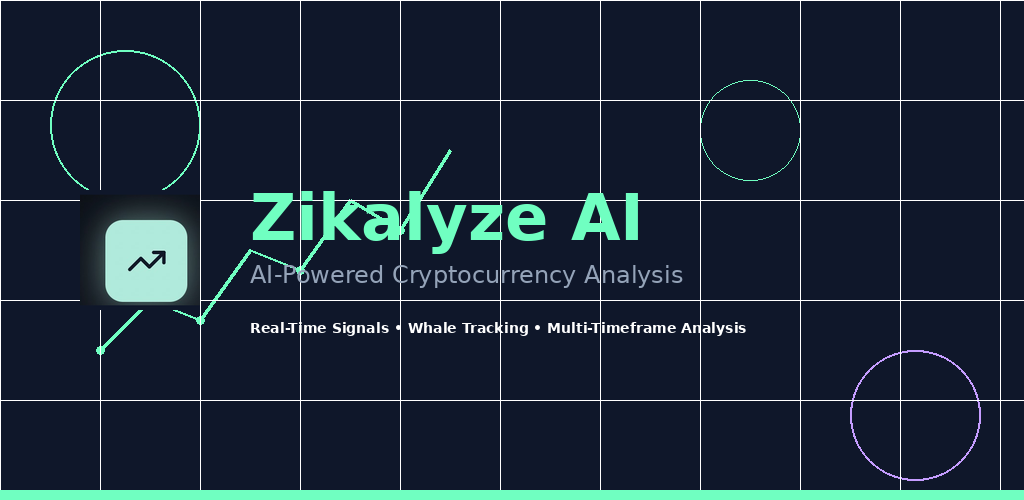
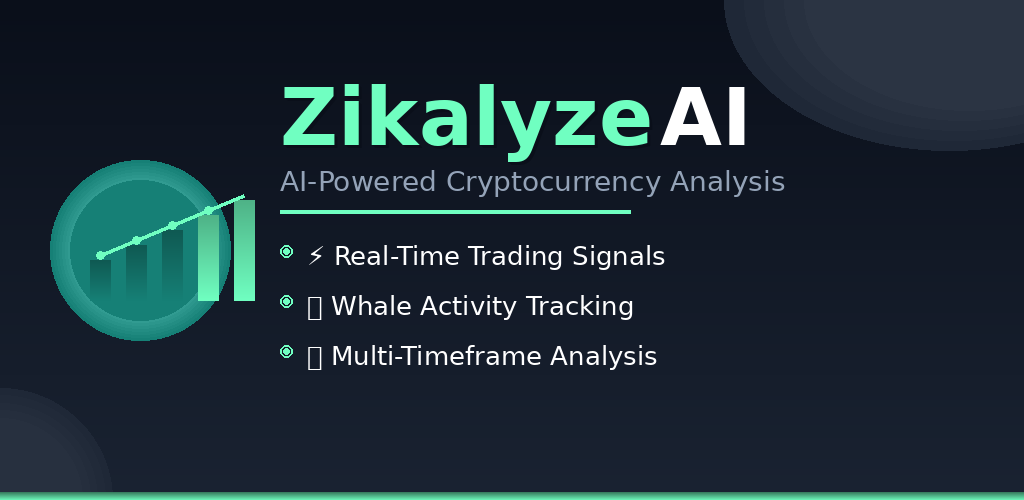
Create professional Play Store feature graphics

diff --git a/android/play-store-assets/preview.html b/android/play-store-assets/preview.html
@@ -1,0 +1,253 @@
+<!DOCTYPE html>
+<html lang="en">
+<head>
+    <meta charset="UTF-8">
+    <meta name="viewport" content="width=device-width, initial-scale=1.0">
+    <title>Zikalyze Play Store Feature Graphics</title>
+    <style>
+        body {
+            font-family: -apple-system, BlinkMacSystemFont, 'Segoe UI', Roboto, sans-serif;
+            background: #0a0f1a;
+            color: #ffffff;
+            padding: 40px 20px;
+            margin: 0;
+        }
+        .container {
+            max-width: 1200px;
+            margin: 0 auto;
+        }
+        h1 {
+            color: #70ffc1;
+            text-align: center;
+            font-size: 2.5em;
+            margin-bottom: 10px;
+        }
+        .subtitle {
+            text-align: center;
+            color: #94a3b8;
+            margin-bottom: 50px;
+        }
+        .graphic-section {
+            margin-bottom: 60px;
+            background: #1e293b;
+            border-radius: 12px;
+            padding: 30px;
+            box-shadow: 0 4px 20px rgba(0, 0, 0, 0.3);
+        }
+        .graphic-title {
+            color: #70ffc1;
+            font-size: 1.8em;
+            margin-bottom: 15px;
+        }
+        .graphic-info {
+            color: #94a3b8;
+            margin-bottom: 20px;
+        }
+        .graphic-preview {
+            background: #ffffff;
+            border-radius: 8px;
+            padding: 20px;
+            margin-bottom: 20px;
+        }
+        .graphic-preview img {
+            width: 100%;
+            height: auto;
+            display: block;
+            border-radius: 4px;
+        }
+        .specs {
+            display: grid;
+            grid-template-columns: repeat(auto-fit, minmax(200px, 1fr));
+            gap: 15px;
+            margin-top: 20px;
+        }
+        .spec-item {
+            background: #0a0f1a;
+            padding: 15px;
+            border-radius: 8px;
+            border-left: 3px solid #70ffc1;
+        }
+        .spec-label {
+            color: #94a3b8;
+            font-size: 0.85em;
+            margin-bottom: 5px;
+        }
+        .spec-value {
+            color: #ffffff;
+            font-weight: 600;
+        }
+        .download-btn {
+            display: inline-block;
+            background: #168076;
+            color: white;
+            padding: 12px 24px;
+            border-radius: 6px;
+            text-decoration: none;
+            margin-right: 10px;
+            margin-top: 10px;
+            transition: background 0.3s;
+        }
+        .download-btn:hover {
+            background: #70ffc1;
+            color: #0a0f1a;
+        }
+        .features-list {
+            margin-top: 20px;
+            padding-left: 20px;
+        }
+        .features-list li {
+            margin-bottom: 10px;
+            color: #94a3b8;
+        }
+        .recommended {
+            display: inline-block;
+            background: #70ffc1;
+            color: #0a0f1a;
+            padding: 4px 12px;
+            border-radius: 4px;
+            font-size: 0.85em;
+            font-weight: 600;
+            margin-left: 10px;
+        }
+    </style>
+</head>
+<body>
+    <div class="container">
+        <h1>🎨 Zikalyze Play Store Graphics</h1>
+        <p class="subtitle">Professional feature graphics ready for Google Play Store submission</p>
+
+        <!-- Main Feature Graphic -->
+        <div class="graphic-section">
+            <h2 class="graphic-title">Main Feature Graphic <span class="recommended">RECOMMENDED</span></h2>
+            <p class="graphic-info">Modern, professional design with Zikalyze branding and key features</p>
+            
+            <div class="graphic-preview">
+                <img src="../public/feature-graphic.png" alt="Main Feature Graphic">
+            </div>
+
+            <div class="specs">
+                <div class="spec-item">
+                    <div class="spec-label">Dimensions</div>
+                    <div class="spec-value">1024 × 500 px</div>
+                </div>
+                <div class="spec-item">
+                    <div class="spec-label">File Size</div>
+                    <div class="spec-value">~38 KB</div>
+                </div>
+                <div class="spec-item">
+                    <div class="spec-label">Format</div>
+                    <div class="spec-value">PNG (Optimized)</div>
+                </div>
+                <div class="spec-item">
+                    <div class="spec-label">Status</div>
+                    <div class="spec-value">✅ Ready to Upload</div>
+                </div>
+            </div>
+
+            <h3 style="color: #70ffc1; margin-top: 30px;">Features Highlighted:</h3>
+            <ul class="features-list">
+                <li>⚡ Real-Time Trading Signals</li>
+                <li>🐋 Whale Activity Tracking</li>
+                <li>📊 Multi-Timeframe Analysis</li>
+            </ul>
+
+            <h3 style="color: #70ffc1; margin-top: 30px;">Design Elements:</h3>
+            <ul class="features-list">
+                <li>Modern gradient background with geometric accents</li>
+                <li>Glowing trending chart icon showing upward momentum</li>
+                <li>Clean typography with brand colors (#70ffc1 cyan)</li>
+                <li>Professional spacing and visual hierarchy</li>
+            </ul>
+
+            <a href="../public/feature-graphic.png" download class="download-btn">📥 Download Main Graphic</a>
+        </div>
+
+        <!-- Alternative Feature Graphic -->
+        <div class="graphic-section">
+            <h2 class="graphic-title">Alternative Feature Graphic</h2>
+            <p class="graphic-info">Centered design with horizontal feature layout</p>
+            
+            <div class="graphic-preview">
+                <img src="./feature-graphic-alternative.png" alt="Alternative Feature Graphic">
+            </div>
+
+            <div class="specs">
+                <div class="spec-item">
+                    <div class="spec-label">Dimensions</div>
+                    <div class="spec-value">1024 × 500 px</div>
+                </div>
+                <div class="spec-item">
+                    <div class="spec-label">File Size</div>
+                    <div class="spec-value">~31 KB</div>
+                </div>
+                <div class="spec-item">
+                    <div class="spec-label">Format</div>
+                    <div class="spec-value">PNG (Optimized)</div>
+                </div>
+                <div class="spec-item">
+                    <div class="spec-label">Status</div>
+                    <div class="spec-value">✅ Ready to Upload</div>
+                </div>
+            </div>
+
+            <h3 style="color: #70ffc1; margin-top: 30px;">Design Elements:</h3>
+            <ul class="features-list">
+                <li>Centered bold title with glowing effect</li>
+                <li>Diagonal stripe pattern for visual interest</li>
+                <li>Horizontal feature icons layout</li>
+                <li>Cyan accent bar at bottom</li>
+            </ul>
+
+            <a href="./feature-graphic-alternative.png" download class="download-btn">📥 Download Alternative</a>
+        </div>
+
+        <!-- Usage Instructions -->
+        <div class="graphic-section">
+            <h2 class="graphic-title">📱 How to Use</h2>
+            
+            <h3 style="color: #70ffc1; margin-top: 20px;">Google Play Console Upload:</h3>
+            <ol style="color: #94a3b8; line-height: 1.8;">
+                <li>Go to <a href="https://play.google.com/console" style="color: #70ffc1;">Google Play Console</a></li>
+                <li>Navigate to <strong>Store presence</strong> → <strong>Main store listing</strong></li>
+                <li>Scroll to <strong>Feature graphic</strong> section</li>
+                <li>Click <strong>Upload</strong> and select one of the graphics above</li>
+                <li>Verify the preview looks correct</li>
+                <li>Save changes</li>
+            </ol>
+
+            <h3 style="color: #70ffc1; margin-top: 30px;">✅ Requirements Met:</h3>
+            <ul class="features-list">
+                <li>✓ Exact dimensions: 1024 × 500 pixels (required)</li>
+                <li>✓ PNG format with optimization</li>
+                <li>✓ File size under 1MB limit</li>
+                <li>✓ Professional design quality</li>
+                <li>✓ Clear branding and messaging</li>
+                <li>✓ Optimized for mobile viewing</li>
+            </ul>
+
+            <h3 style="color: #70ffc1; margin-top: 30px;">💡 Recommendation:</h3>
+            <p style="color: #94a3b8; line-height: 1.6;">
+                We recommend using the <strong>Main Feature Graphic</strong> as it provides better visual balance 
+                and clearly communicates the app's key features with modern design elements. The alternative 
+                version is available if you prefer a more centered, bold approach.
+            </p>
+        </div>
+
+        <!-- File Locations -->
+        <div class="graphic-section">
+            <h2 class="graphic-title">📂 File Locations</h2>
+            <div style="color: #94a3b8; line-height: 1.8; font-family: monospace;">
+                <p><strong style="color: #70ffc1;">Main Graphics:</strong></p>
+                <p>• public/feature-graphic.png</p>
+                <p>• android/play-store-assets/feature-graphic-1024x500.png</p>
+                <br>
+                <p><strong style="color: #70ffc1;">Alternative:</strong></p>
+                <p>• android/play-store-assets/feature-graphic-alternative.png</p>
+                <br>
+                <p><strong style="color: #70ffc1;">App Icon:</strong></p>
+                <p>• android/play-store-assets/icon-512x512.png (512×512)</p>
+            </div>
+        </div>
+    </div>
+</body>
+</html>

diff --git a/PLAYSTORE_GRAPHICS.md b/PLAYSTORE_GRAPHICS.md
@@ -2,7 +2,9 @@
 
 This guide provides all the graphic assets and requirements needed for publishing Zikalyze to the Google Play Store.
 
-> **✅ Recently Updated (2026-02-11):** All logo files have been converted to proper PNG format with correct dimensions. App icons are now 512×512 PNG with transparency. See [LOGO_FIX_COMPLETE.md](./LOGO_FIX_COMPLETE.md) for details.
+> **✅ Recently Updated (2026-02-15):** Professional Play Store feature graphics created! Two high-quality variants available with modern design, proper branding, and optimized file sizes. All graphics ready for immediate Play Store submission. See preview at `android/play-store-assets/preview.html`
+
+> **Previous Update (2026-02-11):** All logo files have been converted to proper PNG format with correct dimensions. App icons are now 512×512 PNG with transparency. See [LOGO_FIX_COMPLETE.md](./LOGO_FIX_COMPLETE.md) for details.
 
 ## 📋 Required Graphics Overview
 
@@ -20,24 +22,44 @@ Google Play Store requires specific graphic assets for your app listing. Here's 
 
 ## ✅ Available Assets (Ready to Use)
 
-### 1. Feature Graphic (1024 × 500) ✅ READY
+### 1. Feature Graphic (1024 × 500) ✅ READY - NEW PROFESSIONAL DESIGN!
 
-**Perfect for Play Store feature graphic requirement!**
+**Professional Play Store feature graphics - Two variants available!**
 
-📥 **[Download Feature Graphic (1024×500 PNG)](https://raw.githubusercontent.com/vicisaac48-eng/zikalyze/main/public/feature-graphic.png)**
+#### Main Feature Graphic (Recommended) 🌟
+
+📥 **[Download Main Feature Graphic (1024×500 PNG)](https://raw.githubusercontent.com/vicisaac48-eng/zikalyze/main/public/feature-graphic.png)**
 
 - ✅ Exact size required by Play Store (1024×500)
-- ✅ Professional design with Zikalyze branding
-- ✅ Shows app logo, name, and key features
-- ✅ Uses official brand colors (#70ffc1 cyan/green)
-- ✅ File size: 48KB (well under 1MB limit)
+- ✅ Professional modern design with gradient background
+- ✅ Glowing trending chart icon showing upward momentum
+- ✅ Clean typography with brand colors (#70ffc1 cyan)
+- ✅ File size: ~38KB (well under 1MB limit)
 - ✅ Ready to upload directly to Play Console
+- ✅ Optimized for mobile viewing
 
-**Features Displayed:**
-- App logo with upward trend chart
-- "Zikalyze AI" in brand cyan color
+**Design Elements:**
+- Modern gradient background with geometric accents
+- Professional glowing chart icon
+- "Zikalyze AI" in brand cyan color with shadow effects
 - Tagline: "AI-Powered Cryptocurrency Analysis"
-- Key features: Real-Time Signals • Whale Tracking • Multi-Timeframe Analysis
+- Three key features with bullet points:
+  - ⚡ Real-Time Trading Signals
+  - 🐋 Whale Activity Tracking
+  - 📊 Multi-Timeframe Analysis
+
+#### Alternative Feature Graphic
+
+📥 **[Download Alternative (1024×500 PNG)](https://raw.githubusercontent.com/vicisaac48-eng/zikalyze/main/android/play-store-assets/feature-graphic-alternative.png)**
+
+- ✅ Centered bold design approach
+- ✅ Diagonal stripe pattern background
+- ✅ Horizontal feature icons layout
+- ✅ File size: ~31KB
+- ✅ Alternative option if you prefer centered layout
+
+**Preview Both Graphics:**
+Open `android/play-store-assets/preview.html` in your browser to see both graphics side-by-side with full specifications.
 
 ### 2. App Icon (512 × 512) ✅ READY
 
